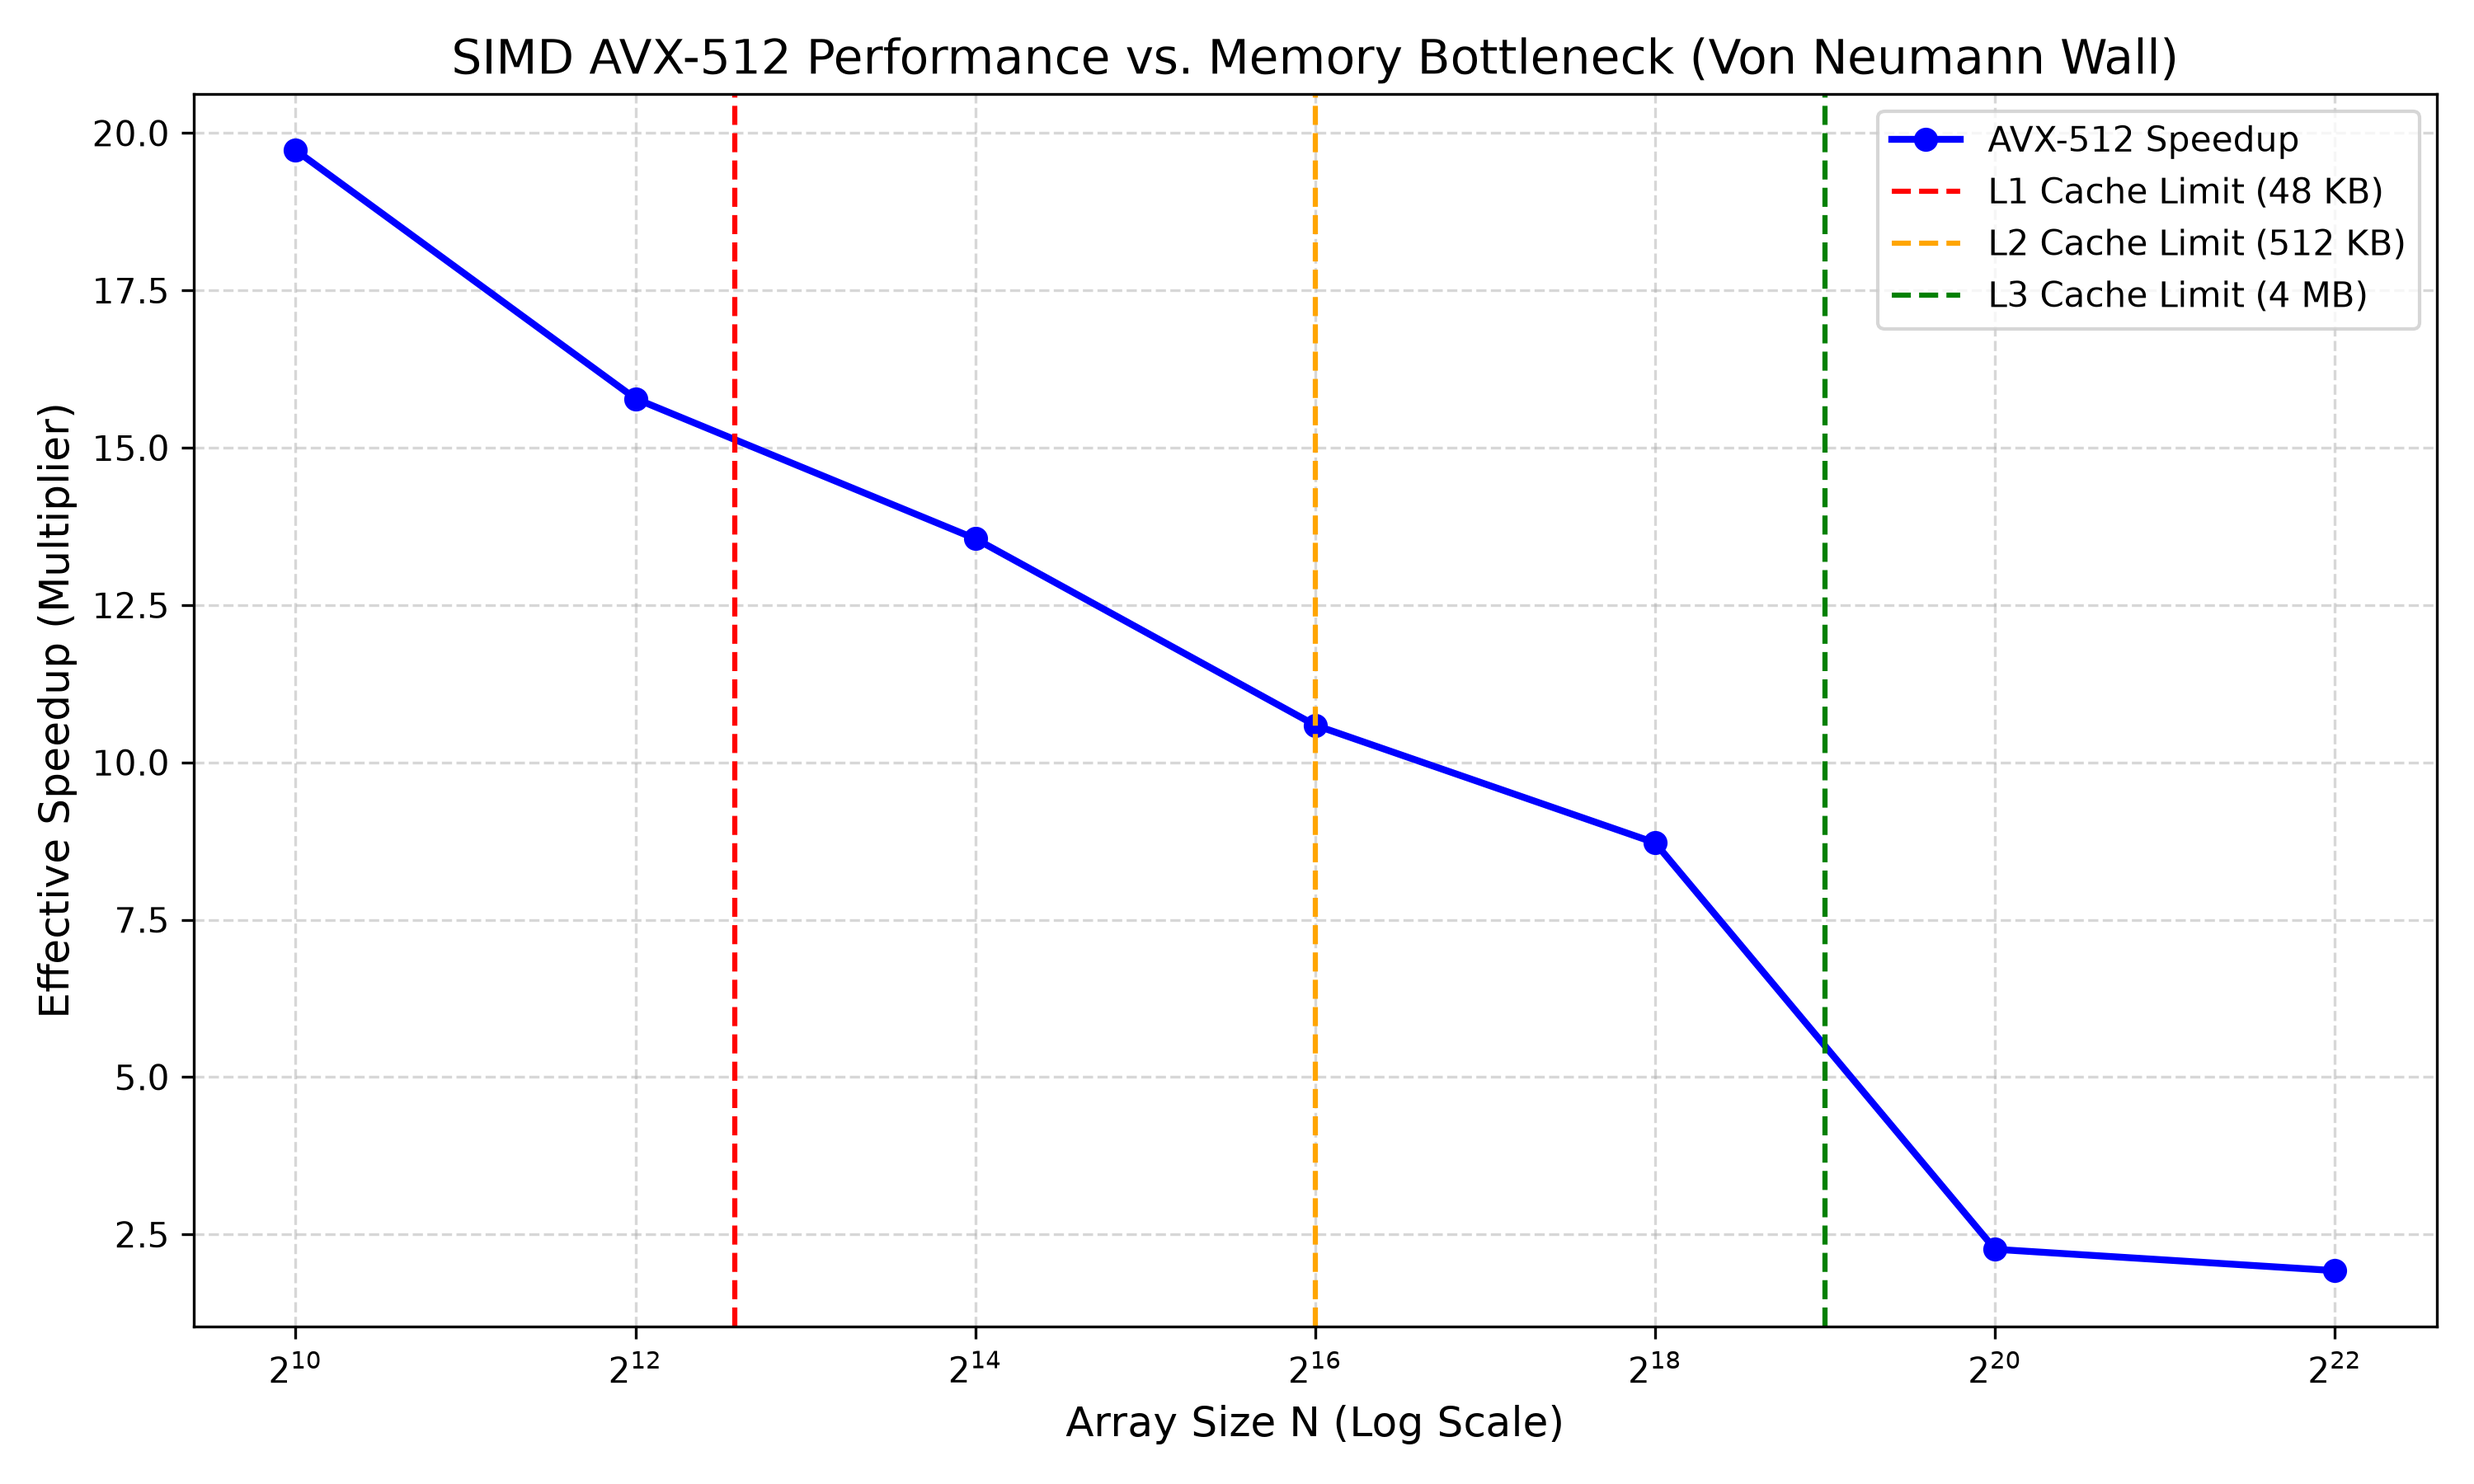
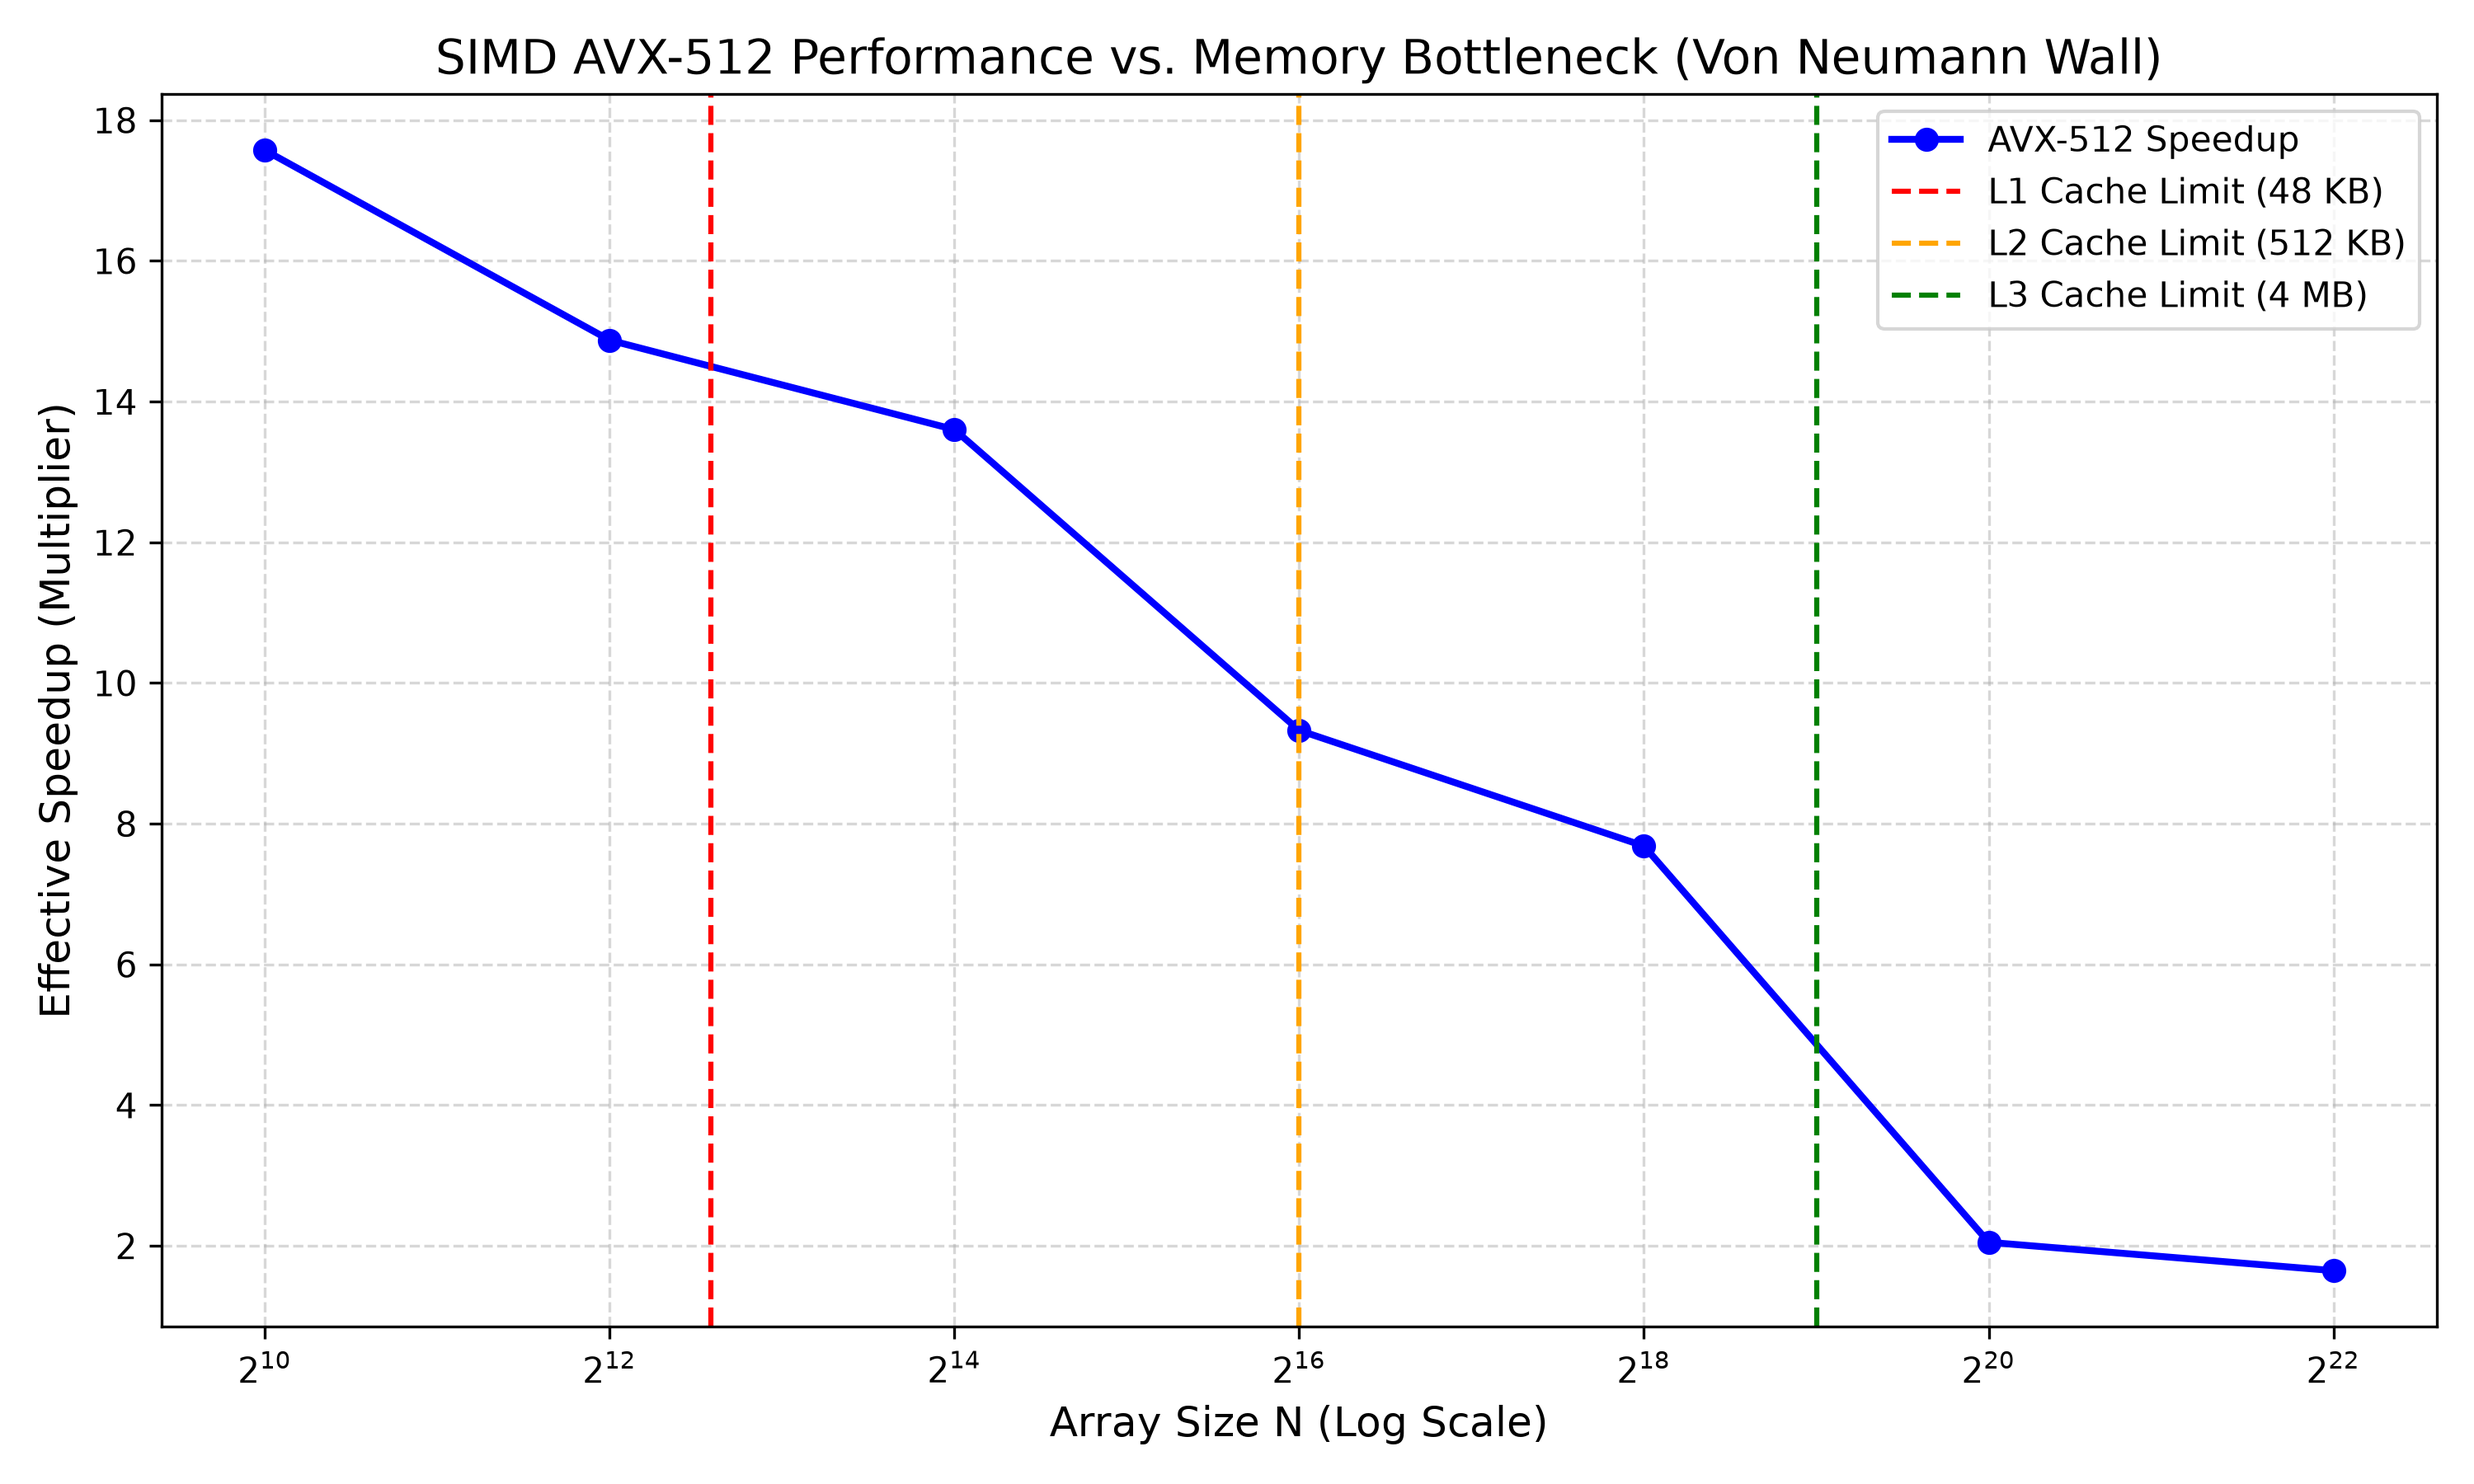
changed the memory_wall_graph's saving location

diff --git a/scripts/plot_result_data.py b/scripts/plot_result_data.py
@@ -47,5 +47,5 @@ plt.legend()
 plt.tight_layout()
 
 
-plt.savefig('memory_wall_graph.png', dpi=300)
+plt.savefig('docs/img/memory_wall_graph', dpi=300)
 print("Graph successfully saved as memory_wall_graph.png")
